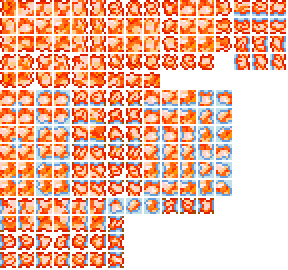
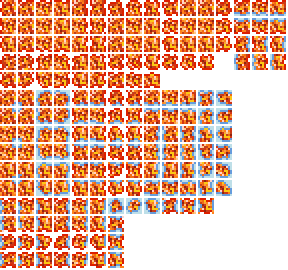
update frozen lava sprite
also update localization file

diff --git a/Common/Globals/RhyoliteGlobalItem.cs b/Common/Globals/RhyoliteGlobalItem.cs
@@ -1,0 +1,15 @@
+using Xenon.Content.Items.Placeable.Tile;
+using Terraria.ID;
+using Terraria.ModLoader;
+
+namespace Xenon.Common.Globals;
+
+public class RhyoliteGlobalItem : GlobalItem
+{
+    public override void SetStaticDefaults()
+    {
+        ItemID.Sets.ShimmerTransformToItem[ItemID.Marble] = ItemID.Granite;
+        ItemID.Sets.ShimmerTransformToItem[ItemID.Granite] = ModContent.ItemType<RhyoliteBlock>();
+        ItemID.Sets.ShimmerTransformToItem[ModContent.ItemType<RhyoliteBlock>()] = ItemID.Marble;
+    }
+}

diff --git a/Content/Tiles/FrozenLava.cs b/Content/Tiles/FrozenLava.cs
@@ -13,9 +13,10 @@ public class FrozenLava : ModTile
         Main.tileSolid[Type] = true;
         Main.tileBlockLight[Type] = true;
         Main.tileMergeDirt[Type] = true;
-        DustType = ModContent.DustType<RhyoliteDust>();
+        DustType = DustID.Torch;
         HitSound = SoundID.Item50;
         TileID.Sets.GeneralPlacementTiles[Type] = false;
+        TileID.Sets.IceSkateSlippery[Type] = true;
     }
     public override bool IsTileDangerous(int i, int j, Player player)
 	{

diff --git a/Common/Globals/XenonPlayer.cs b/Common/Globals/XenonPlayer.cs
@@ -1,0 +1,10 @@
+using Terraria;
+using Terraria.ModLoader;
+using Xenon.Content.Tiles;
+
+namespace Xenon.Common.Globals;
+
+public class XenonPlayer : ModPlayer
+{
+	
+}
